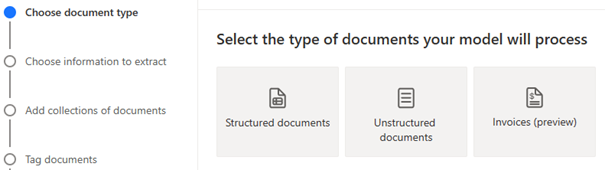
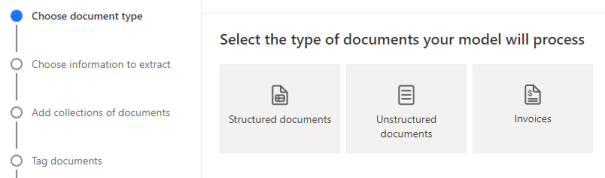
Remove preview mention of Invoices type of Document processing

diff --git a/ai-builder-docs/prebuilt-invoice-processing.md b/ai-builder-docs/prebuilt-invoice-processing.md
@@ -18,7 +18,7 @@ ms.reviewer: angieandrews
 
 The invoice processing prebuilt AI model extracts key invoice data to help automate the processing of invoices. The invoice processing model is optimized to recognize common invoice elements like invoice ID, invoice date, amount due, and more.
 
-The **Invoices (preview)** model allows you to augment the default behavior by building a [custom Invoices model](create-form-processing-model.md#select-the-type-of-document).
+The **Invoices** model allows you to augment the default behavior by building a [custom Invoices model](create-form-processing-model.md#select-the-type-of-document).
 
 ## Use in Power Apps
 
@@ -144,7 +144,7 @@ The following limit applies to calls made per environment across document proces
 
 The invoice processing prebuilt AI model is designed to extract common fields found in invoices. Because every business is unique, you might want to extract fields other than those included in this prebuilt model. It can also be the case that some standard fields aren't well extracted for a particular type of invoice you work with. To address this, there are two options:
 
-- **Use the custom Invoices (preview) processing model**: Augment the behaviors of the prebuilt invoice processing model by adding new fields to be extracted in addition to the ones by [default](prebuilt-invoice-processing.md#model-output), or samples of documents not properly extracted. To learn how to augment the prebuilt invoice processing model, go to [Select the type of document](create-form-processing-model.md#select-the-type-of-document).
+- **Use the custom Invoices processing model**: Augment the behaviors of the prebuilt invoice processing model by adding new fields to be extracted in addition to the ones by [default](prebuilt-invoice-processing.md#model-output), or samples of documents not properly extracted. To learn how to augment the prebuilt invoice processing model, go to [Select the type of document](create-form-processing-model.md#select-the-type-of-document).
 
 - **View raw OCR results**: Every time the invoice processing prebuilt AI model processes a file you provide, it also does an OCR operation to extract every word written on the file. You can access the raw OCR results on the detected text output provided by the model. A simple search on the content returned by detected text might be enough to get the data you need.
 

diff --git a/ai-builder-docs/create-form-processing-model.md b/ai-builder-docs/create-form-processing-model.md
@@ -42,7 +42,7 @@ On the **Choose document type** step, select the type of document you want to bu
 
 - **Unstructured and free-form documents**. Unstructured documents are those where there's no set structure, usually free documents with a varying number of paragraphs. Examples of unstructured documents are contracts, statement of work, letters, and more.
 
-- **Invoices (preview)**. Augment the behaviors of the prebuilt invoice processing model by adding new fields to be extracted in addition to the ones by [default](prebuilt-invoice-processing.md#model-output), or samples of documents not properly extracted.
+- **Invoices**. Augment the behaviors of the prebuilt invoice processing model by adding new fields to be extracted in addition to the ones by [default](prebuilt-invoice-processing.md#model-output), or samples of documents not properly extracted.
 
     :::image type="content" source="media/document-processing-choose-document-type.png" alt-text="Screenshot of the tiles under 'Select the type of documents your model will process'.":::
 

diff --git a/ai-builder-docs/tag-form-processing-model.md b/ai-builder-docs/tag-form-processing-model.md
@@ -37,7 +37,7 @@ When you hover over words in your documents, light blue boxes may appear. These 
 
 :::image type="content" source="media/form-select-fields.png" alt-text="Screenshot of selecting fields close up.":::
 
-#### For the custom Invoices (preview) model only
+#### For the custom Invoices model only
 
 You can override the behavior of a default field by redrawing an existing bounding box.
 
